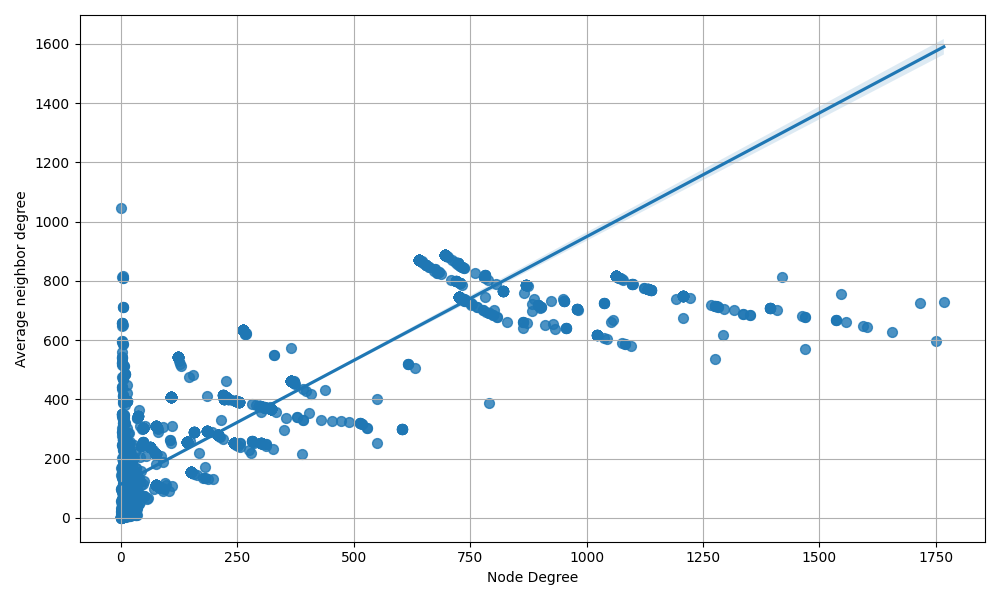
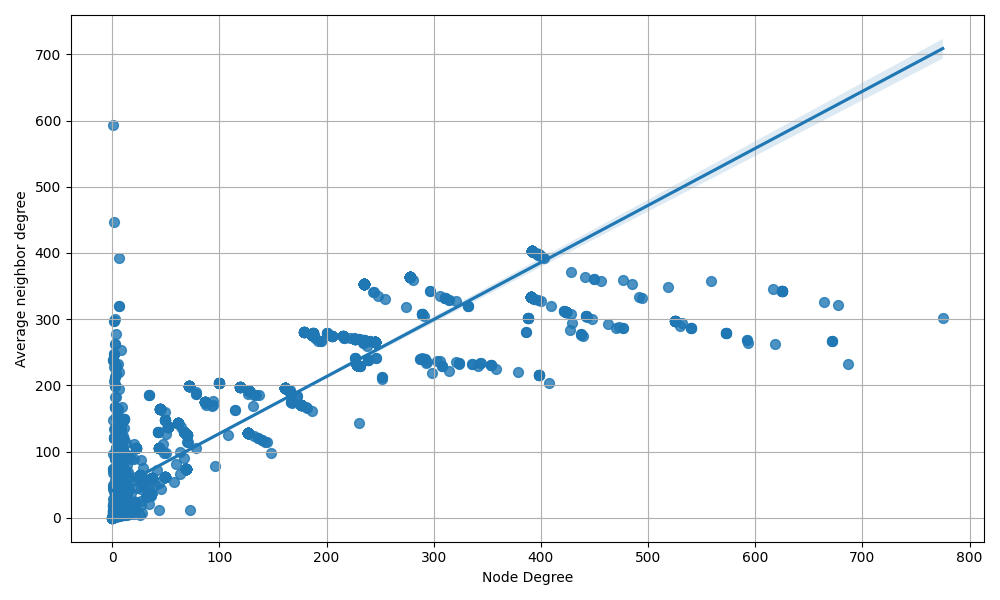
.

diff --git a/p2/requisito_02/main.py b/p2/requisito_02/main.py
@@ -21,26 +21,26 @@ class GraphBuilder:
 
     def build_graph(self):
         for _, row in self.df.iterrows():
+            authors_id = row["Author(s) ID"].split("; ")
             authors = row["Authors"].split("; ")
-            for i, author1 in enumerate(authors):
-                for author2 in authors[i + 1 :]:
-                    if not self.G.has_edge(author1, author2):
-                        self.G.add_edge(author1, author2, weight=1)
-
-        for _, row in self.df.iterrows():
-            authors = row["Authors"].split("; ")
-            author_ids = row["Author(s) ID"].split("; ")
             affiliations = row["Affiliations"].split("; ")
-            for author, author_id, affiliation in zip(
-                authors, author_ids, affiliations
-            ):
-                if author not in self.G.nodes:
-                    self.G.add_node(
-                        author,
-                        id_scopus=author_id,
-                        name=author,
-                        affiliation=affiliation,
-                    )
+
+            authors_information = list(zip(authors_id, authors, affiliations))
+
+            for index, (id_1, name_1, affiliation_1) in enumerate(authors_information):
+                if not self.G.has_node(id_1):
+                    self.G.add_node(id_1, name=name_1, affiliation=affiliation_1)
+
+                for id_2, name_2, affiliation_2 in authors_information[index + 1 :]:
+                    if not self.G.has_node(id_2):
+                        self.G.add_node(id_2, name=name_2, affiliation=affiliation_2)
+
+                    if not self.G.has_edge(id_1, id_2):
+                        self.G.add_edge(
+                            id_1,
+                            id_2,
+                            weight=1,
+                        )
         return self.G
 
 

diff --git a/p2/requisito_03/main.py b/p2/requisito_03/main.py
@@ -17,11 +17,21 @@ class GraphBuilder:
 
     def build_graph(self):
         for _, row in self.df.iterrows():
-            authors = row["Authors"].split("; ")
-            for i, author1 in enumerate(authors):
-                for author2 in authors[i + 1 :]:
-                    if not self.G.has_edge(author1, author2):
-                        self.G.add_edge(author1, author2, weight=1)
+            authors_id = row["Author(s) ID"].split("; ")
+
+            for index, id_1 in enumerate(authors_id):
+                if not self.G.has_node(id_1):
+                    self.G.add_node(id_1)
+
+                for id_2 in authors_id[index + 1 :]:
+                    if not self.G.has_node(id_2):
+                        self.G.add_node(id_2)
+
+                    if not self.G.has_edge(id_1, id_2):
+                        self.G.add_edge(
+                            id_1,
+                            id_2,
+                        )
         return self.G
 
 

diff --git a/p2/requisito_03/readme.md b/p2/requisito_03/readme.md
@@ -2,21 +2,21 @@
 
 | Network | Number of Vertices | Number of Edges | Degree assortativity coefficient | Number of connected components | Size of giant component | Average clustering coefficient |
 | ------- | ------------------ | --------------- | -------------------------------- | ------------------------------ | ----------------------- | ------------------------------ |
-| ODS 3   | 17052                | 1968310              | 0.554203735940394           | 228                             | 15555                      | 0.9041024136195435            |
-| ODS 7   | 2132                 | 7881              | 0.015169517446396432             | 122                             | 994                       | 0.8868278521310594            |
-| ODS 15  | 5878                 | 924090              | 0.455399712591598               | 78                             | 5327                      | 0.9313146835976882             |
-| ODS 17  | 889                 | 5561               | 0.9351869021283101             | 105                              | 175                       | 0.9302579586423553                            |
+| ODS 3   | 15676                | 1953297              | 0.5787544969461272           | 187                             | 14244                      | 0.9073239911818309            |
+| ODS 7   | 2132                 | 7424              | -0.010260050126892737             | 106                             | 895                       | 0.8838263415888765            |
+| ODS 15  | 5532                 | 889090              | 0.4871596928304268               | 72                             | 5010                      | 0.9304788778825666             |
+| ODS 17  | 874                 | 5553               | 0.9302314584096364             | 98                              | 192                       | 0.9217832802651342                            |
 
 # Comentários
 
 ## ODS 3 (Saúde e Bem-Estar)
-A rede ODS 3 é bastante grande e densamente conectada, com um número muito alto de vértices e arestas. A alta assortatividade de grau (0.5542) indica uma tendência forte de autores colaborarem com outros de grau semelhante. A presença de 228 componentes conectados mostra alguma fragmentação, mas o tamanho significativo do componente gigante (15.555 vértices) sugere que a maioria dos autores está bem interligada. O alto coeficiente médio de aglomeração (0.9041) indica que há uma forte tendência para a formação de clusters, sugerindo que grupos de coautoria são bem definidos e frequentemente colaboram entre si.
+A rede ODS 3 é bastante grande e densamente conectada, com um número alto de vértices e arestas. A alta assortatividade de grau (0.5788) indica que há uma forte tendência dos pesquisadores de colaborarem com outros que têm um número semelhante de colaborações. A existência de 187 componentes conectados revela alguma fragmentação, mas o tamanho significativo do componente gigante (14.244 vértices) sugere que a maioria dos pesquisadores estão interligados. O coeficiente médio de aglomeração muito alto (0.9073) indica que há uma forte tendência para a formação de clusters, sugerindo que os grupos de coautoria são bem definidos e frequentemente colaboram entre si.
 
 ## ODS 7 (Energia Acessível e Limpa)
-A rede ODS 7 é menor comparada à ODS 3, com um número mais moderado de vértices e arestas. A assortatividade de grau é próxima de zero (0.0152), indicando que não há uma tendência clara dos autores de colaborarem com outros de grau semelhante ou diferente. A rede é fragmentada em 122 componentes, mas o componente gigante contém 994 vértices, representando quase metade da rede. O coeficiente médio de aglomeração é alto (0.8868), sugerindo que, embora a rede seja fragmentada, dentro dos componentes, especialmente o componente gigante, há uma forte formação de clusters de colaboração.
+A rede ODS 7 é menor e mostra uma assortatividade de grau próxima de zero (-0.0103), indicando que não há uma tendência clara dos pesquisadores de colaborarem com outros de grau semelhante ou diferente. A rede é fragmentada em 106 componentes, mas o componente gigante ainda é significativo, contendo 895 vértices, o que representa uma parte considerável da rede. O coeficiente médio de aglomeração é alto (0.8838), sugerindo que, dentro dos componentes, especialmente no componente gigante, há uma forte formação de clusters de colaboração.
 
 ## ODS 15 (Vida Terrestre)
-A rede ODS 15 é de tamanho moderado com um número considerável de vértices e um alto número de arestas. A assortatividade de grau (0.4554) sugere uma tendência moderada dos autores colaborarem com outros de grau semelhante. Existem 78 componentes conectados, mas o componente gigante é muito grande (5.327 vértices), indicando que a maior parte da rede está bem conectada. O coeficiente médio de aglomeração é muito alto (0.9313), sugerindo uma forte tendência à formação de clusters, com colaborações frequentes dentro de pequenos grupos de autores.
+A rede ODS 15 é de tamanho moderado com um número considerável de vértices e um alto número de arestas. A assortatividade de grau (0.4872) sugere uma tendência moderada dos pesquisadores colaborarem com outros de grau semelhante. Existem 72 componentes conectados, mas o componente gigante é muito grande (5.010 vértices), indicando que a maior parte da rede está bem conectada. O coeficiente médio de aglomeração é muito alto (0.9305), sugerindo uma forte tendência à formação de clusters, com colaborações frequentes dentro de pequenos grupos de pesquisadores.
 
 ## ODS 17 (Parcerias e Meios de Implementação)
-A rede ODS 17 é a menor entre as redes analisadas. Apresenta uma alta assortatividade de grau (0.9352), indicando uma tendência muito forte dos autores colaborarem com outros de grau semelhante, sugerindo a formação de subgrupos distintos de coautoria. A rede é bastante fragmentada com 105 componentes conectados, e o componente gigante é relativamente pequeno (175 vértices). O coeficiente médio de aglomeração é muito alto (0.9303), indicando que, dentro dos pequenos grupos de colaboração, há uma forte formação de clusters.
+A rede ODS 17 é a menor entre as redes analisadas. Apresenta uma alta assortatividade de grau (0.9302), indicando uma tendência muito forte dos pesquisadores colaborarem com outros de grau semelhante, sugerindo a formação de subgrupos distintos de coautoria. A rede é bastante fragmentada com 98 componentes conectados, e o componente gigante é relativamente pequeno (192 vértices). O coeficiente médio de aglomeração é muito alto (0.9218), indicando que, dentro dos pequenos grupos de colaboração, há uma forte formação de clusters.

diff --git a/p2/requisito_02/readme.md b/p2/requisito_02/readme.md
@@ -2,8 +2,14 @@
 
 A partir do código [em python](./main.py) gerou-se um gráfico bipartido sobre a assortatividade em relação ao grau dos nós da rede, como pode ser visto na [pasta de resultados](./resultados/).
 
-Em particular, a ODS 3 (Saúde e Bem-Estar), a ODS 17 (Parcerias e Meios de Implementação) e a ODS 15 (Vida Terrestre) seguiram um padrão semelhante. À medida que o grau de um nó aumenta, o grau médio dos vizinhos também aumenta. Este comportamento indica uma estrutura colaborativa entre os autores dessas ODSs. Esse fenômeno sugere que os autores com um alto número de coautorias tendem a colaborar com outros autores que também são bem conectados. Essa característica é típica de redes sociais densas e pode ser um sinal de que existem grupos de pesquisa ou laboratórios colaborativos trabalhando intensamente nessas ODSs.
+## ODS 3 (Saúde e Bem-Estar)
+O gráfico bipartido da rede de coautoria da ODS 3 mostra uma relação positiva entre o grau dos nodos e o grau médio dos seus vizinhos, indicando uma rede assortativa. A linha de tendência ascendente confirma que pesquisadores com muitas colaborações tendem a colaborar com outros pesquisadores igualmente bem conectados. Isso sugere uma forte formação de clusters colaborativos. Ademais, a maioria dos nodos possuem graus baixos, com vizinhos de mesmo grau, indicando a existência de grupos que colaboram frequentemente entre si.
 
-A ODS 7 (Energia Limpa e Acessível) apresenta um padrão distinto e interessante. A maioria dos nós tem um grau baixo, indicando que muitos pesquisadores têm poucas coautorias. No entanto, há alguns nós com grau significativamente alto, sugerindo a presença de pesquisadores centrais que colaboram extensivamente. A menor inclinação da linha de tendência e a maior dispersão dos pontos em graus mais altos sugerem que a rede de coautoria na ODS 7 é menos centralizada e mais dispersa em comparação com a ODS 3. Isso pode indicar uma diversidade maior de grupos de pesquisa menores, com menos interconexão entre os grupos.
+## ODS 7 (Energia Acessível e Limpa)
+A linha de tendência ascendente indica uma correlação positiva, sugerindo que pesquisadores com um número maior de colaborações tendem a ter vizinhos também com um número relativamente alto de colaborações. No entanto, a dispersão dos pontos e a presença de uma faixa considerável de variabilidade ao redor da linha de tendência mostram que essa correlação é menos forte comparada à rede da ODS 3. Além disso, muitos nós de grau baixo possuem vizinhos com graus altos, o que pode indicar que pesquisadores menos influentes (com poucos artigos) se associam a pesquisadores de mais renome.
 
-Um fator comum a todas as ODSs analisadas é que a maioria dos nós não tem um número tão alto de vizinhos, indicando que geralmente temos subgrupos pequenos de pesquisa, com alguns pesquisadores (geralmente coordenadores de projetos) desempenhando um papel maior. Esses pesquisadores mais conectados se associam a diversos grupos e pesquisas, tendo um maior grau de vizinhos.
+## ODS 15 (Vida Terrestre)
+O gráfico da ODS 15 também indica uma tendência ascendente, no entanto, há uma grande quantidade de nós de baixo grau que se conectam com vizinhos de alto grau, indicando o mesmo fenômeno que ocorre na ODS 7, onde pesquisadores menores publicam artigos com pesquisadores mais consolidados.
+
+## ODS 17 (Parcerias e Meios de Implementação)
+A ODS 17 foi a rede que apresentou a tendência mais explícita de assortatividade, ou seja, nodos tendem a se conectados com vizinhos de grau semelhante. Isso pode indicar que existem grupos mais fechados, onde autores colaboram frequentemente entre si, evidenciando a formação de clusters.

diff --git a/p2/readme.md b/p2/readme.md
@@ -18,7 +18,6 @@ Por fim, para análise de resultados, foi montado, para cada ODS, um gráfico bi
 No geral, os pesquisadores da UFRN mostram uma boa conectividade global em áreas com um número maior de pesquisadores e colaborações, indicando uma rede bem estabelecida de coautoria. Há uma tendência significativa de formação de clusters colaborativos, sugerindo que os pesquisadores trabalham frequentemente dentro de grupos bem definidos. A assortatividade de grau varia entre as redes, com algumas áreas mostrando uma forte tendência para colaborações entre pesquisadores com graus semelhantes, enquanto outras são mais variadas. A fragmentação é mais pronunciada em redes menores, mas ainda existe uma conectividade substancial dentro dos maiores componentes dessas redes.
 
 ## Reprodutibilidade dos resultados
-
 Para verificar os resultados, deve-se instalar as dependência necessárias do trabalho. Para isso, deve-se usar o gerenciador de pacotes pip e executar o comando abaixo a partir da pasta root:
 `
  $ pip install -r requirements.txt
@@ -33,6 +32,9 @@ Além disso, para reproduzir cada tabela do requisito_03, deve-se entrar na [pas
 `
  $ python main.py
 `
+
+## Explicação em vídeo
+Além das explicações evidenciadas, pode-se conferir o [vídeo] para uma discussão levantada pelo autor acerca deste trabalho
 
 ## Autor
 Trabalho realizado individualmente pelo aluno Mateus Cavalcanti Alves Teixeira Silva.
